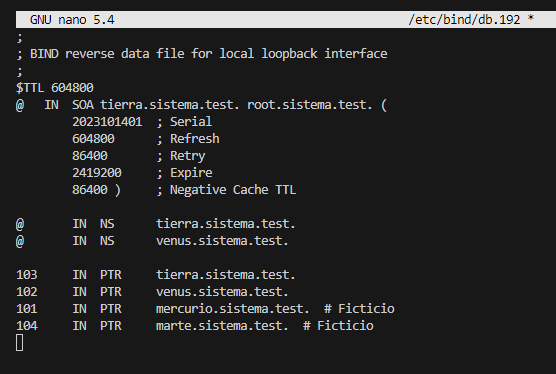
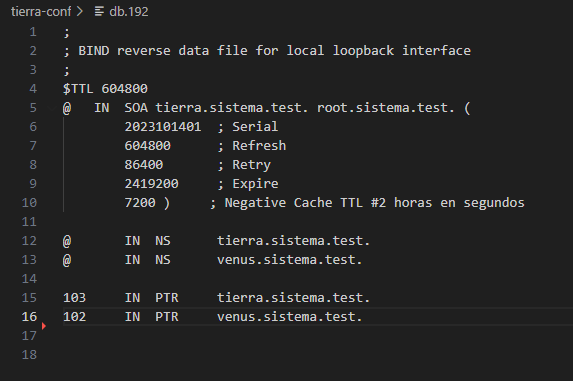
Add png and conf files from venus
Adding the file edited in venus VM to keep track of the code. Also includes the captures of the changes

diff --git a/README.md b/README.md
@@ -23,3 +23,9 @@ Repositorio para la práctica de despliegue de aplicaciones web.
 ![Configuración de db.sistema.test](./images/captura-db-sistema-test.png)
 
 ![Configuración de db.192](./images/captura-db-192.png)
+
+6. Una vez realizadas dichas configuraciones podemos pasar a la configuración del DNS de Venus.
+Realizamos los cambios en el conf.local de venus para la zona directa e inversa.
+
+![Configuración de named.conf.local en Venus](./images/captura-conf-venus-local.png)
+
